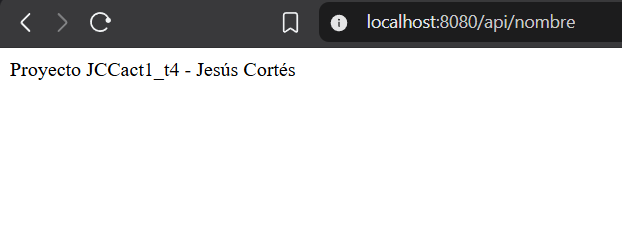
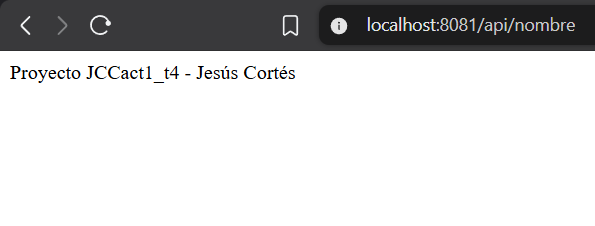
Proyecto final con puerto 8081

Changed region(s): [[0.0, 0.0, 1.0, 0.3717], [0.0908, 0.031, 0.2118, 0.1549], [0.0303, 0.0619, 0.0605, 0.1549]]

diff --git a/readme.md b/readme.md
@@ -78,11 +78,11 @@ Endpoint /api/nombre
 
 Endpoint /api/detalles_info
 
-![Prueba en localhost de /api/detalles_info](imagenes/imagen3.png)
+![Prueba en localhost de /api/detalles_info](imagenes/imagen4.png)
 
 Endpoint /api/detalles_info2
 
-![Prueba en localhost de /api/detalles_info2](imagenes/imagen4.png)
+![Prueba en localhost de /api/detalles_info2](imagenes/imagen3.png)
 
 ## Alumno
 
